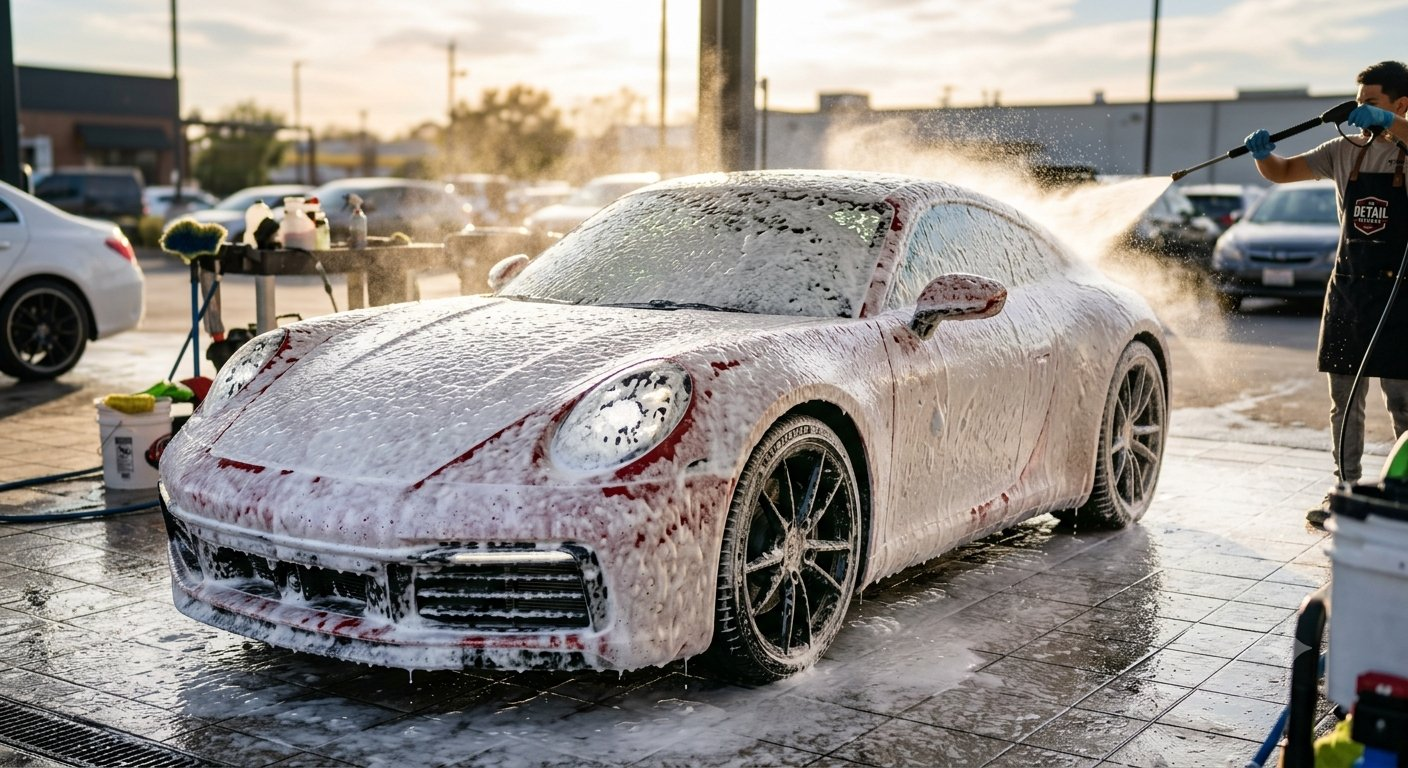
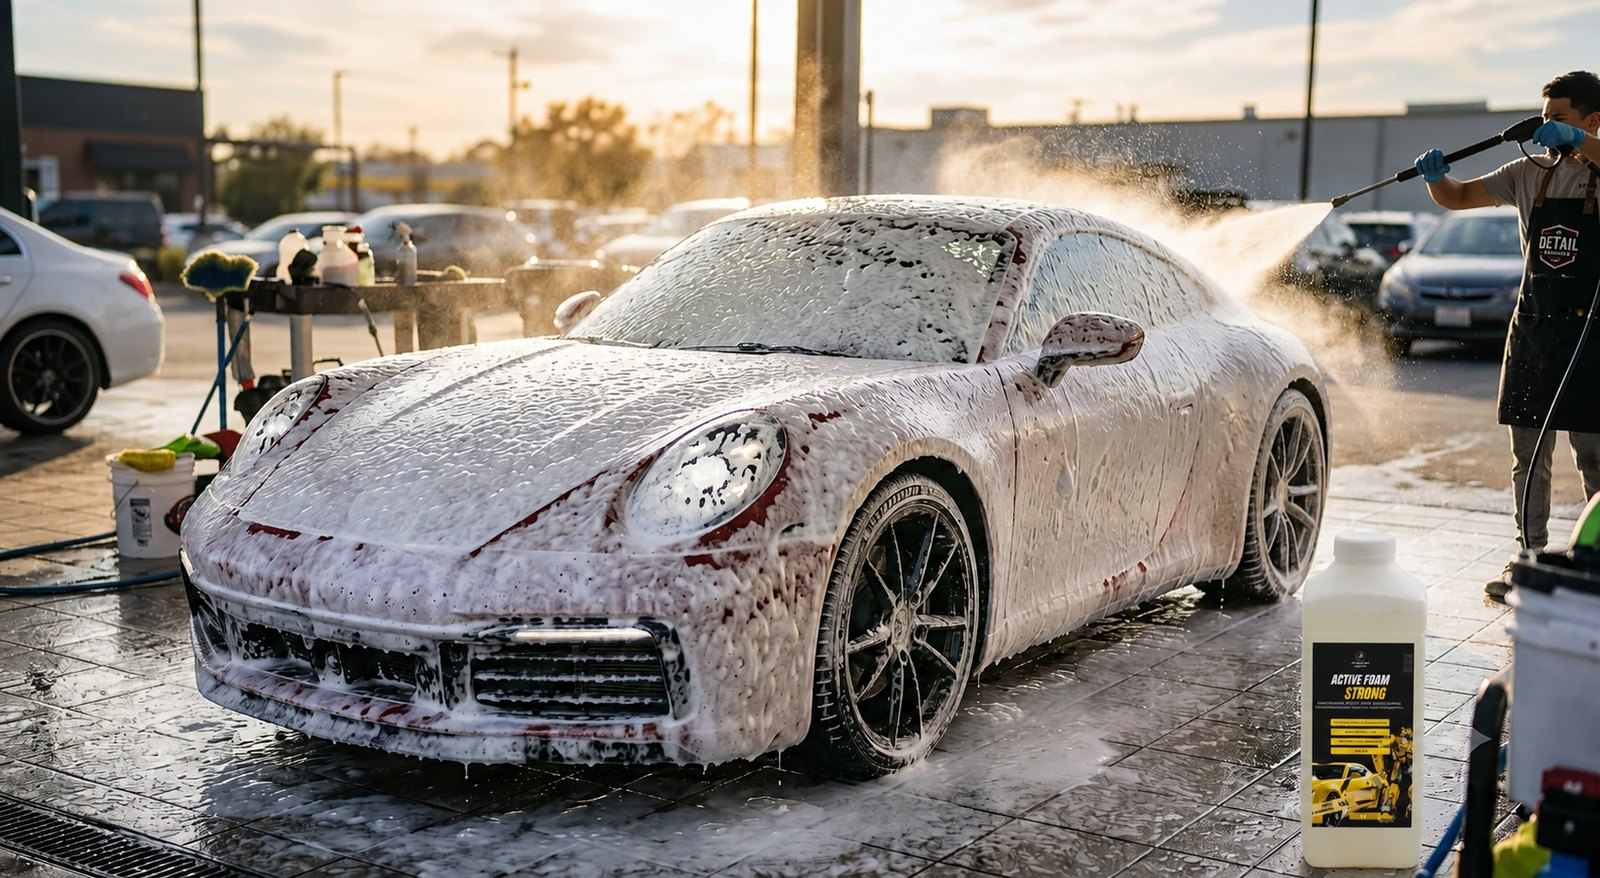
Hero: новое фото машины (с канистрой Strong); мобильный — текст по центру и меньше, фото full-frame, одна кнопка образца; блок цифр — брендовое ASF-фото вместо цеха

diff --git a/components/Hero.tsx b/components/Hero.tsx
@@ -12,39 +12,37 @@ const benefits = [
 export default function Hero() {
   return (
     <section className="relative overflow-hidden bg-soft">
-      {/*
-        Десктоп: фото стоит справа целиком (без обрезки), его левый край
-        растворяется маской в фон — машина полностью вне зоны fade.
-        Мобильный: фото отдельным блоком под текстом.
-      */}
+      {/* Десктоп: фото справа целиком, левый край растворяется маской в фон */}
       <div className="pointer-events-none absolute inset-y-0 right-0 hidden w-[66%] items-center lg:flex">
         <Image
           src="/photos/hero-foam.jpg"
           alt="Автомобиль в густой активной пене ASF"
-          width={1408}
-          height={768}
+          width={1600}
+          height={878}
           priority
           sizes="66vw"
           className="h-auto w-full [-webkit-mask-composite:source-in] [mask-composite:intersect] [mask-image:linear-gradient(90deg,transparent_0%,rgba(0,0,0,0.35)_6%,#000_13%),linear-gradient(180deg,transparent_0%,#000_7%,#000_92%,transparent_100%)]"
         />
       </div>
 
-      <div className="relative mx-auto w-full max-w-[85rem] px-4 pb-10 pt-10 sm:px-6 sm:pb-14 sm:pt-14 lg:flex lg:min-h-[calc(100vh-200px)] lg:items-center lg:py-16">
-        <div className="lg:max-w-[33%]">
-          <h1 className="text-[1.9rem] font-extrabold leading-[1.08] tracking-tight text-ink sm:text-[2.7rem] lg:text-[2.3rem] xl:text-[2.8rem]">
+      <div className="relative mx-auto w-full max-w-[85rem] px-4 pb-12 pt-9 sm:px-6 sm:pb-14 sm:pt-14 lg:flex lg:min-h-[calc(100vh-200px)] lg:items-center lg:py-16">
+        <div className="text-center lg:max-w-[33%] lg:text-left">
+          <h1 className="text-[1.6rem] font-extrabold leading-[1.1] tracking-tight text-ink sm:text-[2.4rem] lg:text-[2.3rem] xl:text-[2.8rem]">
             УВЕЛИЧЬТЕ ПРИБЫЛЬ ВАШЕЙ АВТОМОЙКИ
-            <br />
-            <span className="text-amber-dark">В 2–3 РАЗА</span>
+            <br className="hidden lg:block" />
+            <span className="text-amber-dark"> В 2–3 РАЗА</span>
           </h1>
-          <p className="mt-3 max-w-md text-[16px] font-semibold leading-snug text-ink/70 sm:mt-4 sm:text-[19px] lg:text-[18px] xl:text-[20px]">
+          <p className="mx-auto mt-3 max-w-sm text-[14px] font-semibold leading-snug text-ink/70 sm:mt-4 sm:max-w-md sm:text-[17px] lg:mx-0 lg:text-[18px] xl:text-[20px]">
             и выведите бизнес на новый уровень
           </p>
-          <div className="mt-6 flex flex-wrap items-center gap-2.5 sm:mt-8 sm:gap-3">
+
+          {/* десктоп: три кнопки + галочки */}
+          <div className="mt-8 hidden flex-wrap items-center gap-3 lg:flex">
             <a
               href={waLink("Здравствуйте! Пришлите, пожалуйста, оптовый прайс ASF.")}
               target="_blank"
               rel="noopener noreferrer"
-              className="bg-amber px-4 py-3.5 text-[11px] font-bold tracking-caps uppercase text-ink transition-colors hover:bg-amber-dark sm:px-7 sm:py-4 sm:text-[13px]"
+              className="bg-amber px-7 py-4 text-[13px] font-bold tracking-caps uppercase text-ink transition-colors hover:bg-amber-dark"
             >
               Получить прайс
             </a>
@@ -52,7 +50,7 @@ export default function Hero() {
               href={waLink("Здравствуйте! Хочу получить бесплатный образец автохимии ASF.")}
               target="_blank"
               rel="noopener noreferrer"
-              className="border border-ink px-4 py-3.5 text-[11px] font-bold tracking-caps uppercase text-ink transition-colors hover:bg-ink hover:text-white sm:px-7 sm:py-4 sm:text-[13px]"
+              className="border border-ink px-7 py-4 text-[13px] font-bold tracking-caps uppercase text-ink transition-colors hover:bg-ink hover:text-white"
             >
               Бесплатный образец
             </a>
@@ -61,7 +59,7 @@ export default function Hero() {
               target="_blank"
               rel="noopener noreferrer"
               aria-label="Написать в WhatsApp"
-              className="flex items-center gap-2 border border-ink/25 bg-white/70 px-4 py-3.5 text-[11px] font-bold tracking-caps uppercase text-ink transition-colors hover:border-ink sm:px-7 sm:py-4 sm:text-[13px]"
+              className="flex items-center gap-2 border border-ink/25 bg-white/70 px-7 py-4 text-[13px] font-bold tracking-caps uppercase text-ink transition-colors hover:border-ink"
             >
               <svg viewBox="0 0 24 24" fill="currentColor" className="h-4 w-4 text-[#1faa59]">
                 <path d="M12 2a10 10 0 0 0-8.6 15.1L2 22l5.1-1.3A10 10 0 1 0 12 2zm0 18.2c-1.5 0-3-.4-4.2-1.1l-.3-.2-3 .8.8-2.9-.2-.3A8.2 8.2 0 1 1 12 20.2zm4.6-6.1c-.3-.1-1.5-.7-1.7-.8-.2-.1-.4-.1-.6.1-.2.3-.6.8-.8 1-.1.2-.3.2-.5.1a6.7 6.7 0 0 1-3.4-3c-.3-.4 0-.5.2-.8l.4-.5c.1-.2.1-.3 0-.5l-.8-1.9c-.2-.5-.4-.4-.6-.4h-.5c-.2 0-.5.1-.7.3-.2.3-.9.9-.9 2.1s.9 2.4 1 2.6c.1.2 1.8 2.8 4.4 3.9.6.3 1.1.4 1.5.5.6.2 1.2.2 1.6.1.5-.1 1.5-.6 1.7-1.2.2-.6.2-1.1.1-1.2l-.4-.4z" />
@@ -70,9 +68,9 @@ export default function Hero() {
             </a>
           </div>
 
-          <ul className="mt-6 flex flex-wrap gap-x-4 gap-y-1.5 sm:mt-9 sm:gap-x-6 sm:gap-y-2">
+          <ul className="mt-9 hidden flex-wrap gap-x-6 gap-y-2 lg:flex">
             {benefits.map((b) => (
-              <li key={b} className="flex items-center gap-1.5 text-[12px] font-semibold text-ink/60 sm:text-[13px]">
+              <li key={b} className="flex items-center gap-1.5 text-[13px] font-semibold text-ink/60">
                 <svg viewBox="0 0 24 24" fill="none" stroke="currentColor" strokeWidth="3" className="h-3.5 w-3.5 text-amber-dark">
                   <path d="M5 12.5l4.5 4.5L19 7.5" strokeLinecap="round" strokeLinejoin="round" />
                 </svg>
@@ -81,17 +79,26 @@ export default function Hero() {
             ))}
           </ul>
 
-          {/* мобильный вариант фото: под текстом, целиком — перед машины виден,
-              верхний край растворяется в фон */}
-          <Image
-            src="/photos/hero-foam.jpg"
-            alt="Автомобиль в густой активной пене ASF"
-            width={1408}
-            height={768}
-            priority
-            sizes="100vw"
-            className="mt-7 h-auto w-full [mask-image:linear-gradient(180deg,transparent_0%,#000_14%)] lg:hidden"
-          />
+          {/* мобильный: фото машины на всю ширину экрана (full-frame), затем одна кнопка */}
+          <div className="lg:hidden">
+            <Image
+              src="/photos/hero-foam.jpg"
+              alt="Автомобиль в густой активной пене ASF"
+              width={1600}
+              height={878}
+              priority
+              sizes="100vw"
+              className="-mx-4 mt-7 w-[calc(100%+2rem)] max-w-none sm:-mx-6 sm:w-[calc(100%+3rem)]"
+            />
+            <a
+              href={waLink("Здравствуйте! Хочу заказать бесплатный тестовый образец автохимии ASF.")}
+              target="_blank"
+              rel="noopener noreferrer"
+              className="mt-7 block bg-amber px-6 py-4 text-center text-[13px] font-bold tracking-caps uppercase text-ink transition-colors hover:bg-amber-dark"
+            >
+              Заказать бесплатный образец
+            </a>
+          </div>
         </div>
       </div>
     </section>

diff --git a/components/Intro.tsx b/components/Intro.tsx
@@ -47,8 +47,8 @@ export default function Intro() {
         <div className="mt-4 grid grid-cols-2 gap-3 sm:mt-5 lg:grid-cols-3 lg:gap-4">
           <figure className="reveal relative col-span-2 aspect-[16/9] overflow-hidden lg:col-span-1 lg:aspect-auto">
             <Image
-              src="/photos/production.jpg"
-              alt="Производство автохимии ASF в Астане"
+              src="/photos/brand-stats.jpg"
+              alt="ASF — Astana Soap Factory"
               fill
               sizes="(min-width: 1024px) 420px, 100vw"
               className="object-cover"
